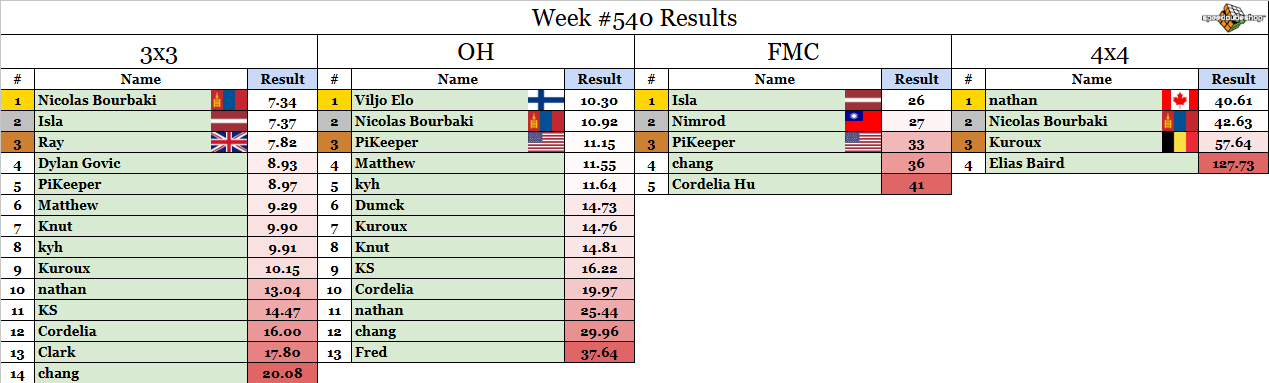
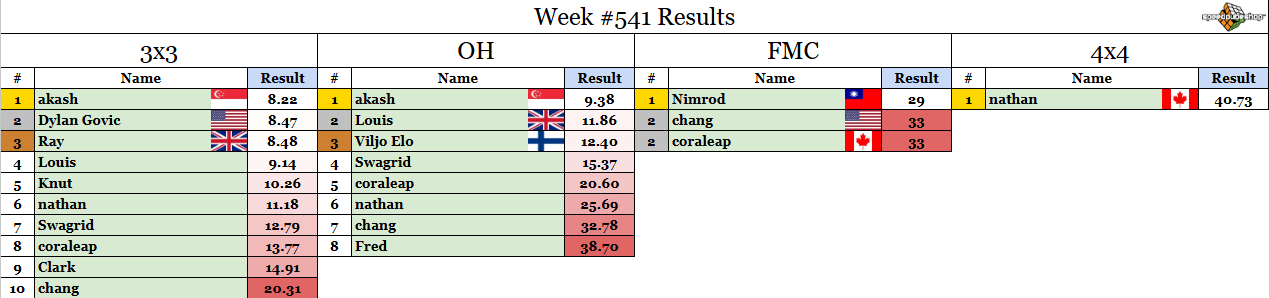
weekly comp update

diff --git a/src/weeklycomp/post.md b/src/weeklycomp/post.md
@@ -1,9 +1,9 @@
-## Weekly Competition #541 
+## Weekly Competition #542 
  
  This weekly competition is proudly sponsored by SpeedCubeShop.com 
  One competitor will be selected at random to receive a $5 SCS gift card! 
  
- Congrats to last week's winner by a random draw: **KS**. DM me for the prize. 
+ Congrats to last week's winner by a random draw: **nathan**. DM me for the prize. 
  
  Check whether or not you participated this week yet at [https://bit.ly/RMSWeeklyCompSummary](https://bit.ly/RMSWeeklyCompSummary)  
  
@@ -17,31 +17,31 @@
  7. The comp runs until Sunday 5pm Eastern time (more or less). Enter your times using the forms links below. 
  
 ### 3x3: [Submission Form](https://forms.gle/H5xoCWvGKnZ92fQt8) 
- 1. U' F2 R' B' U F2 L U' F2 B2 U L2 B2 U' R2 D2 B D' 
- 2. R2 D2 F' R' L' D' B U' R2 B2 U B2 U' L2 D F2 D R F 
- 3. B' D B2 L2 D' R2 D' L2 B2 R2 B2 F2 R' D' F' R F' D2 L2 B 
- 4. L2 U R2 D' U' L2 D2 R2 F2 U' R F' D R' B R B2 U' L F 
- 5. B2 U2 L U2 L2 R2 D B2 F2 R2 D F2 D' U' F D L U F' D' L 
+ 1. D' L F2 U2 F2 R B2 F2 U2 R F2 L' F' D2 U' L B' F' R U 
+ 2. D' B D2 R2 B L2 F' L2 B L2 F' U2 B' R F2 U2 F2 L B D R2 
+ 3. B' D R' B' U' F' L2 D' L' B R2 F U2 B2 D2 L2 F' R2 B' D2 L2 
+ 4. U2 F2 U' L2 F2 D L2 B2 L2 F2 D L2 F' R' D F R B' F' L R' 
+ 5. B2 U2 B2 F2 R' F2 L F2 L F2 D2 R2 B' L2 F2 U' F D2 R' F 
  
 ### OH: [Submission Form](https://forms.gle/UgRLW3K1d5KkMGfM9) 
- 1. B2 U L2 D F2 R2 F2 R2 D2 L2 U R U L R2 F D' L U' R2 
- 2. D2 R L2 B2 L2 D2 F D2 B' D2 L2 F2 L2 F U' R D' L2 F' L' B' 
- 3. D2 L2 R2 F2 D' B2 U L2 R2 U2 F2 L' D' B' D' R' U R2 U B' D 
- 4. F D2 L F2 R' B D R U2 B2 U2 L' U2 D2 L F2 R U2 F L 
- 5. B' D F' U F' U2 F' R L2 U' R2 D R2 D2 F2 U' B2 R2 F2 
+ 1. R D U2 L2 B2 L' D2 R U2 R' D2 B2 F2 L' D F L F' U' L2 D' 
+ 2. D F2 U B2 D2 R2 U B2 U B2 U2 R' U2 F' U2 B' L2 B' F2 
+ 3. D L2 U2 B' R2 B2 D2 B' F2 D2 F D' L2 B F' U L U' 
+ 4. L2 F2 L2 D L2 D2 L2 D R2 U L' U F' L R' D' U' B2 F R2 
+ 5. L2 F B' L F2 B' D' R2 B U2 F' D2 B U2 L2 F' B' R 
  
 ### FMC: [Submission Form](https://forms.gle/1P9VUgZmA1pibwvL9) 
- 1. R' U' F B2 R B U' F D2 B' R B R2 U' R2 D L2 U' L2 U2 L2 B2 D2 F2 R' U' F 
+ 1. R' U' F U D R' D B2 D' R' B R2 D2 R D2 R U2 L2 D2 F2 L F' R' U' F 
  
 ### 4x4: [Submission Form](https://forms.gle/bHNjncvEcPvFWBP2A) 
- 1. D R2 B D B2 D R2 L' U2 L2 U2 B' L2 F' R2 B L2 F' R' D' Fw2 Uw2 L2 Uw2 L2 F' U2 R' B' Uw2 L2 F' Uw' L2 B U' F2 L Rw2 Fw' U2 Uw Fw U2 Fw' 
- 2. B U2 R2 F B2 U2 R U' D2 F2 L2 F D2 F D2 F2 U2 F L2 U2 R2 Rw2 D' Fw2 U F Uw2 Fw2 R2 U Rw2 F2 B' D Rw' D' B' L' Fw2 Uw' F2 D Fw2 Rw Uw2 Rw' 
- 3. F L2 B2 L2 B U2 B' L2 B' D' L U' R D L2 F2 D B' R Uw2 Fw2 R' B' L' D2 Uw2 F' B' R Uw2 R2 Fw2 Uw R' U' D Uw2 Fw' R' Rw F2 L Uw R 
- 4. D' B R2 D2 R2 U' B2 D' F2 D B2 U' D2 L B D B' L2 U2 F2 U2 Fw2 D2 L Rw2 F2 U Rw2 D' R' Uw2 Rw2 Fw2 R Fw' L2 Rw2 F2 Fw Uw' L2 B' Fw' D' Rw2 F' 
- 5. R2 D2 F2 D' F2 U F2 L2 D B2 U R' D' L' F' U' F2 R2 U' B2 L' Rw2 B2 U F B2 Fw2 Rw2 U R2 Rw2 D2 Fw2 Rw' Uw2 B Rw' B' L2 B' D' L Fw U' Rw D2 
+ 1. D L2 F2 U F2 U' F2 U2 R2 F2 R2 D' L' D B U2 F2 B' D B' U' Rw2 D B' Fw2 Rw2 B2 Rw2 D F Rw2 U' F Rw B L' Rw D' Rw Uw Rw U' L F' Uw' 
+ 2. U2 R' B' U L' D' B2 L U2 B' R2 L2 D2 B2 U2 F D2 B' L2 Fw2 L' U Fw2 L U' L D Rw2 U' Uw2 L U Fw R Fw' R2 Fw Uw Rw B Rw F B Uw Rw2 
+ 3. R D2 B2 L' U2 L B2 D2 L' B2 L' D' F' U' B2 R2 L F D R' L2 Uw2 R2 B' R2 Uw2 Fw2 R' F Rw2 Uw2 R' F2 Fw2 Uw' R2 Rw2 F B' Fw' R2 Uw' L Rw Uw2 Rw2 B2 
+ 4. F2 R2 F U' D2 L' F' U D2 F2 L B2 U2 L' U2 D2 F2 R2 U2 R' U Fw2 U' L' D Uw2 L' Rw2 U R2 D Uw2 B2 R2 Fw U2 L' F Fw' Rw' U2 Fw' R' F Uw2 Fw' 
+ 5. D2 F2 R' B2 D L2 F2 U D' F2 D2 B2 D' B2 L' F' D' R' D' F2 R' Rw2 Uw2 B2 D' F2 Rw2 Fw2 R2 F' L2 U2 Uw2 Rw F2 B L' U2 R' Fw R' Fw' Uw' B' Rw2 
  
 ### Winning FMC solutions from last week: 
- 1. Isla, 26 moves: [SOLUTION](https://bit.ly/4f1CKg7) 
- 2. Nimrod, 27 moves: [SOLUTION](https://bit.ly/4eYM04F ) 
- 3. PiKeeper, 33 moves: [SOLUTION](https://bit.ly/40rSgvV) 
+ 1. Nimrod, 29 moves: [SOLUTION](https://bit.ly/4mgdTrr) 
+ 2. chang, 33 moves: [SOLUTION](https://bit.ly/4kWMny0) 
+ 3. coraleap, 33 moves: [SOLUTION](https://bit.ly/4o4y6lT) 
  
